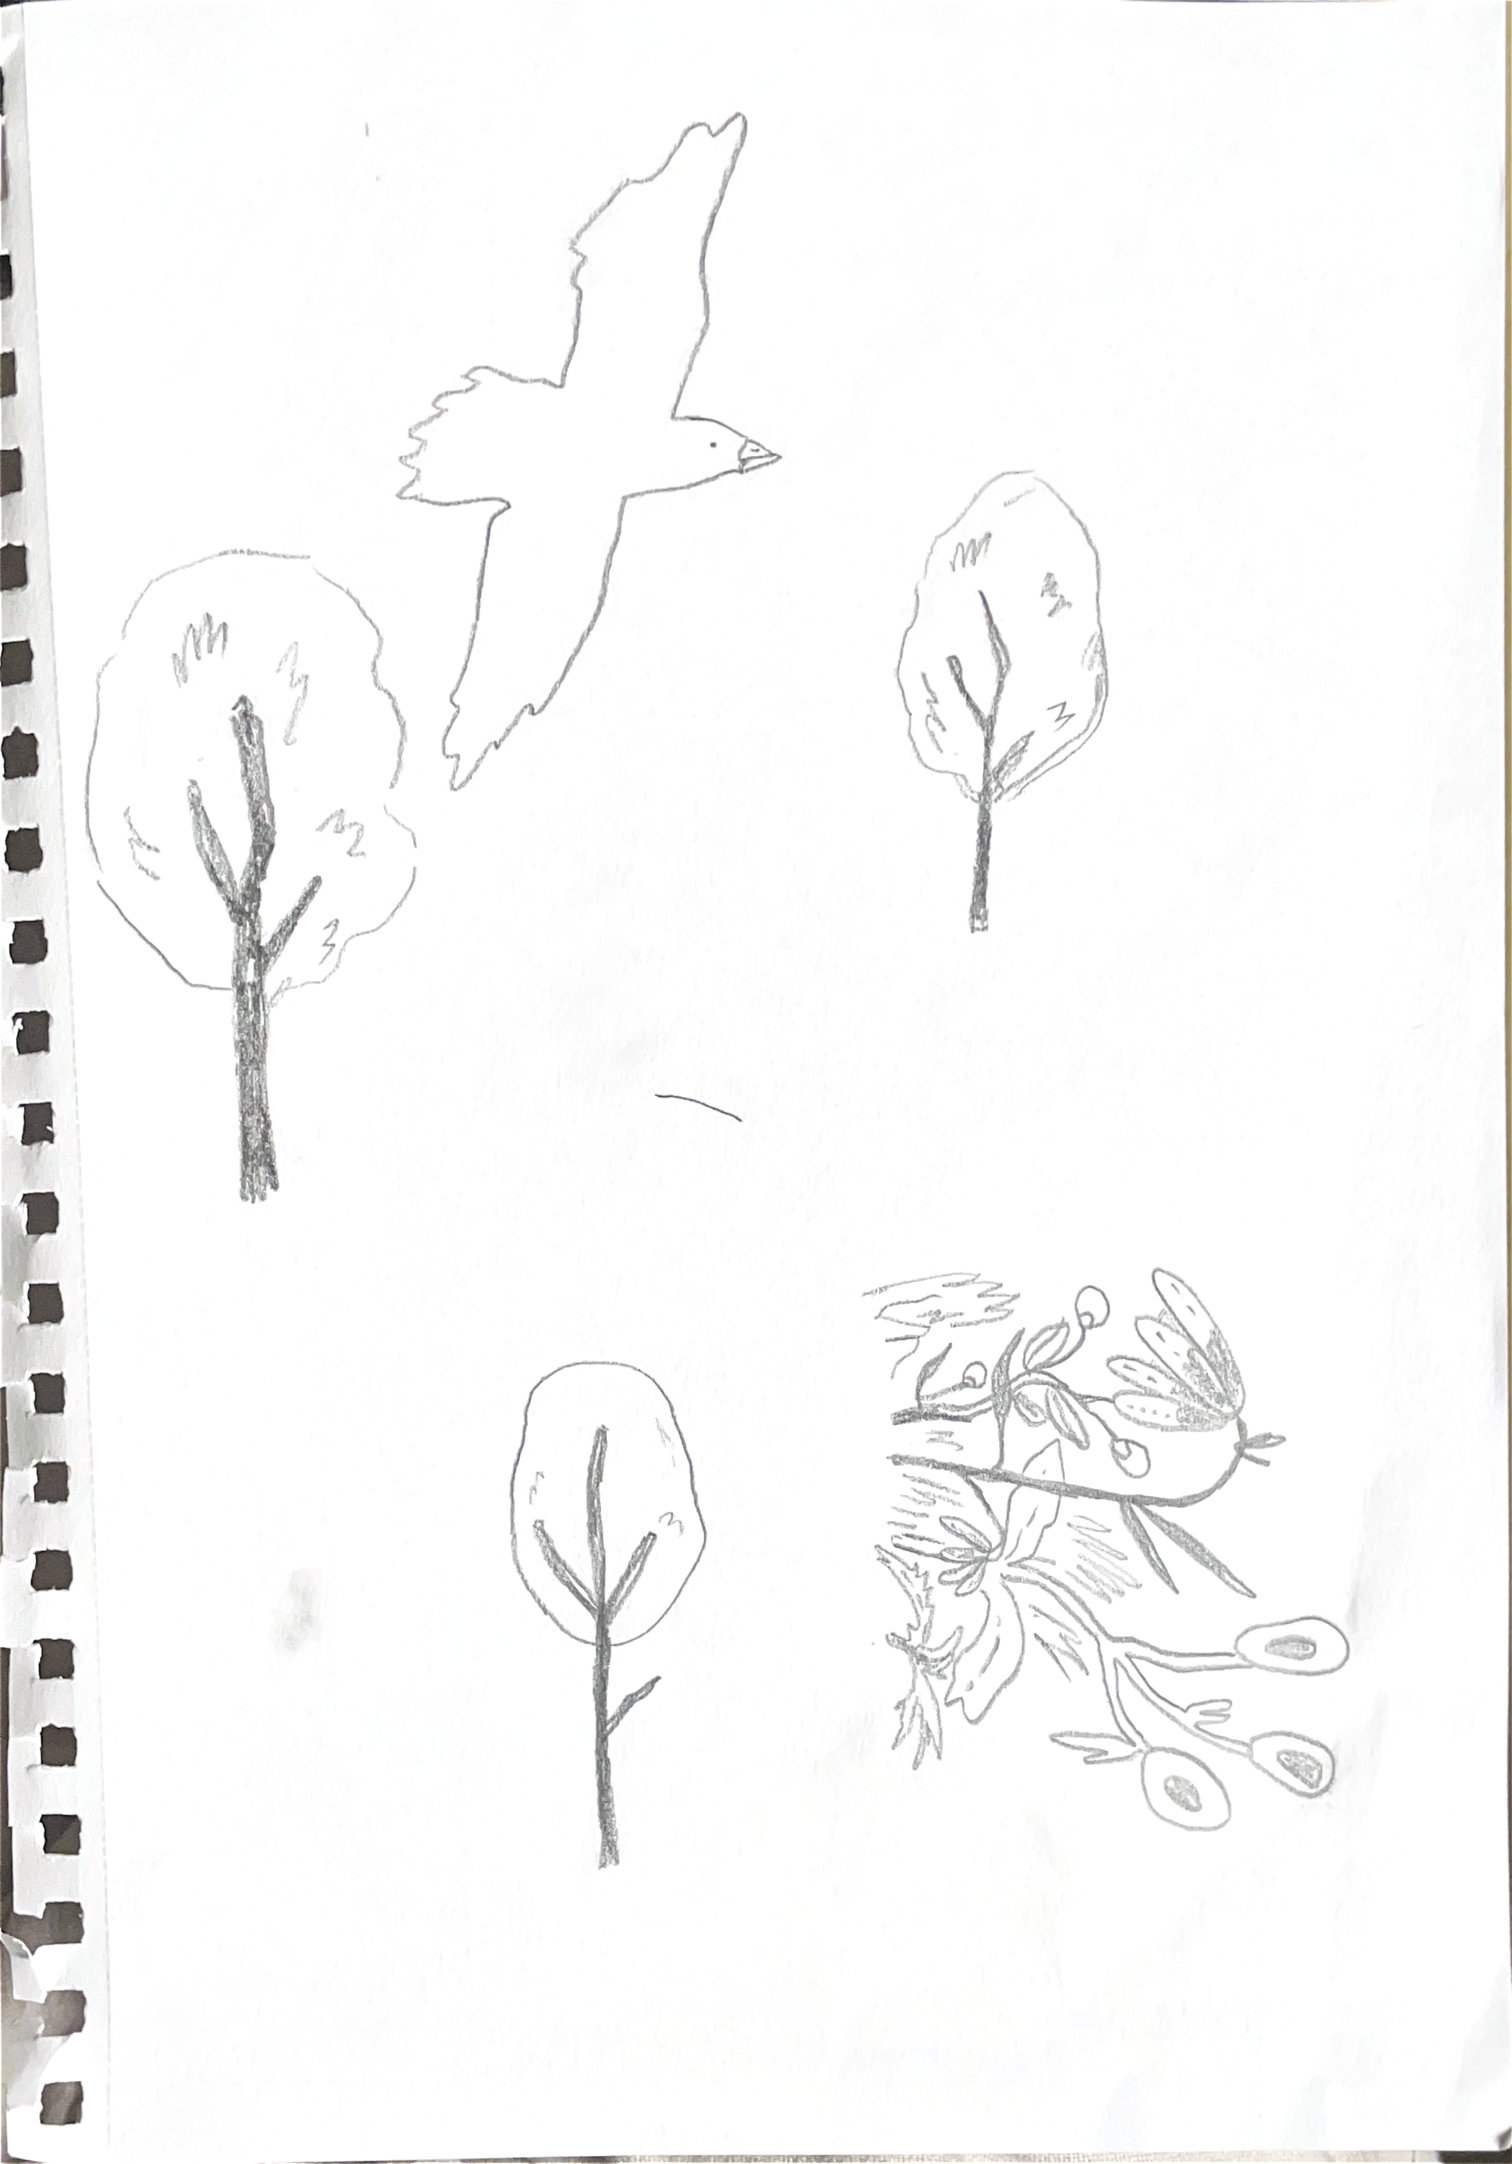
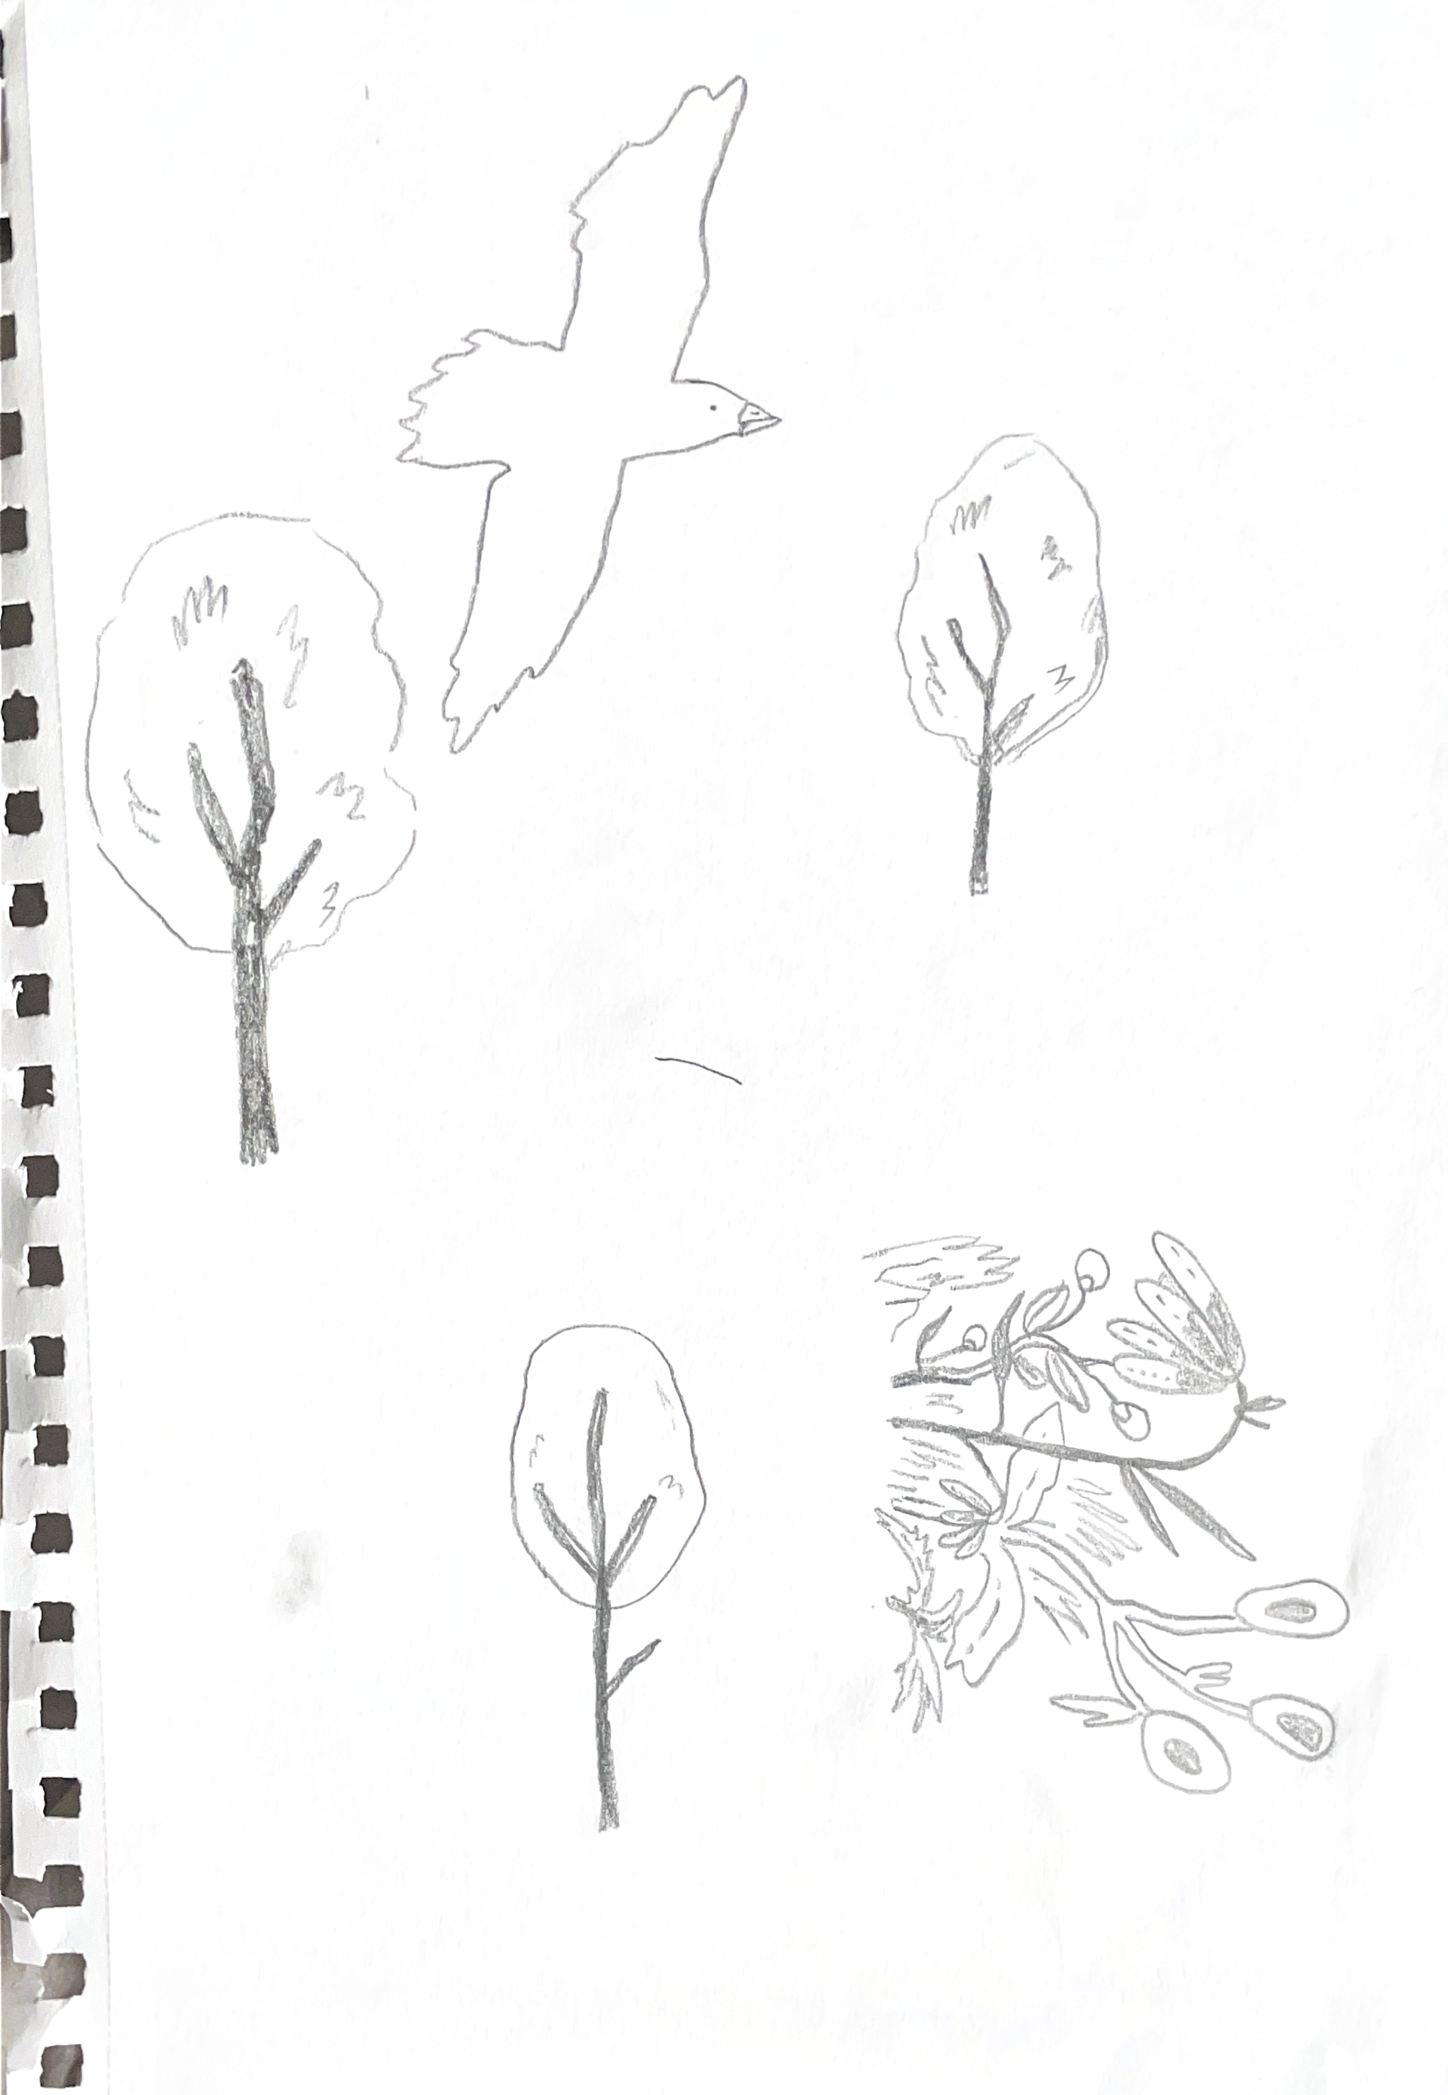
paper plane

diff --git a/src/projects/university/paper-airplane-game/description.md b/src/projects/university/paper-airplane-game/description.md
@@ -8,5 +8,6 @@ I developed a paper-airplane game in Processing, a Java-based language designed 
 <single-image src="_cover.png" height="3000" width="1000">
 
 The paper plane flies through a landscape featuring a looping background, along with randomly placed and sized trees and flowers. A flock of birds flies around the paper plane and follows it. To create a relaxing experience for players, I chose a minimal design with soft pastel colors. I drew all the images by hand and then scanned them digitally to create the game's visuals.
+<single-image src="sketchcopy.png" height="200" width="300" caption="Drawings">
 
-<single-image src="_sketches.png" height="3000" width="1000">
+
